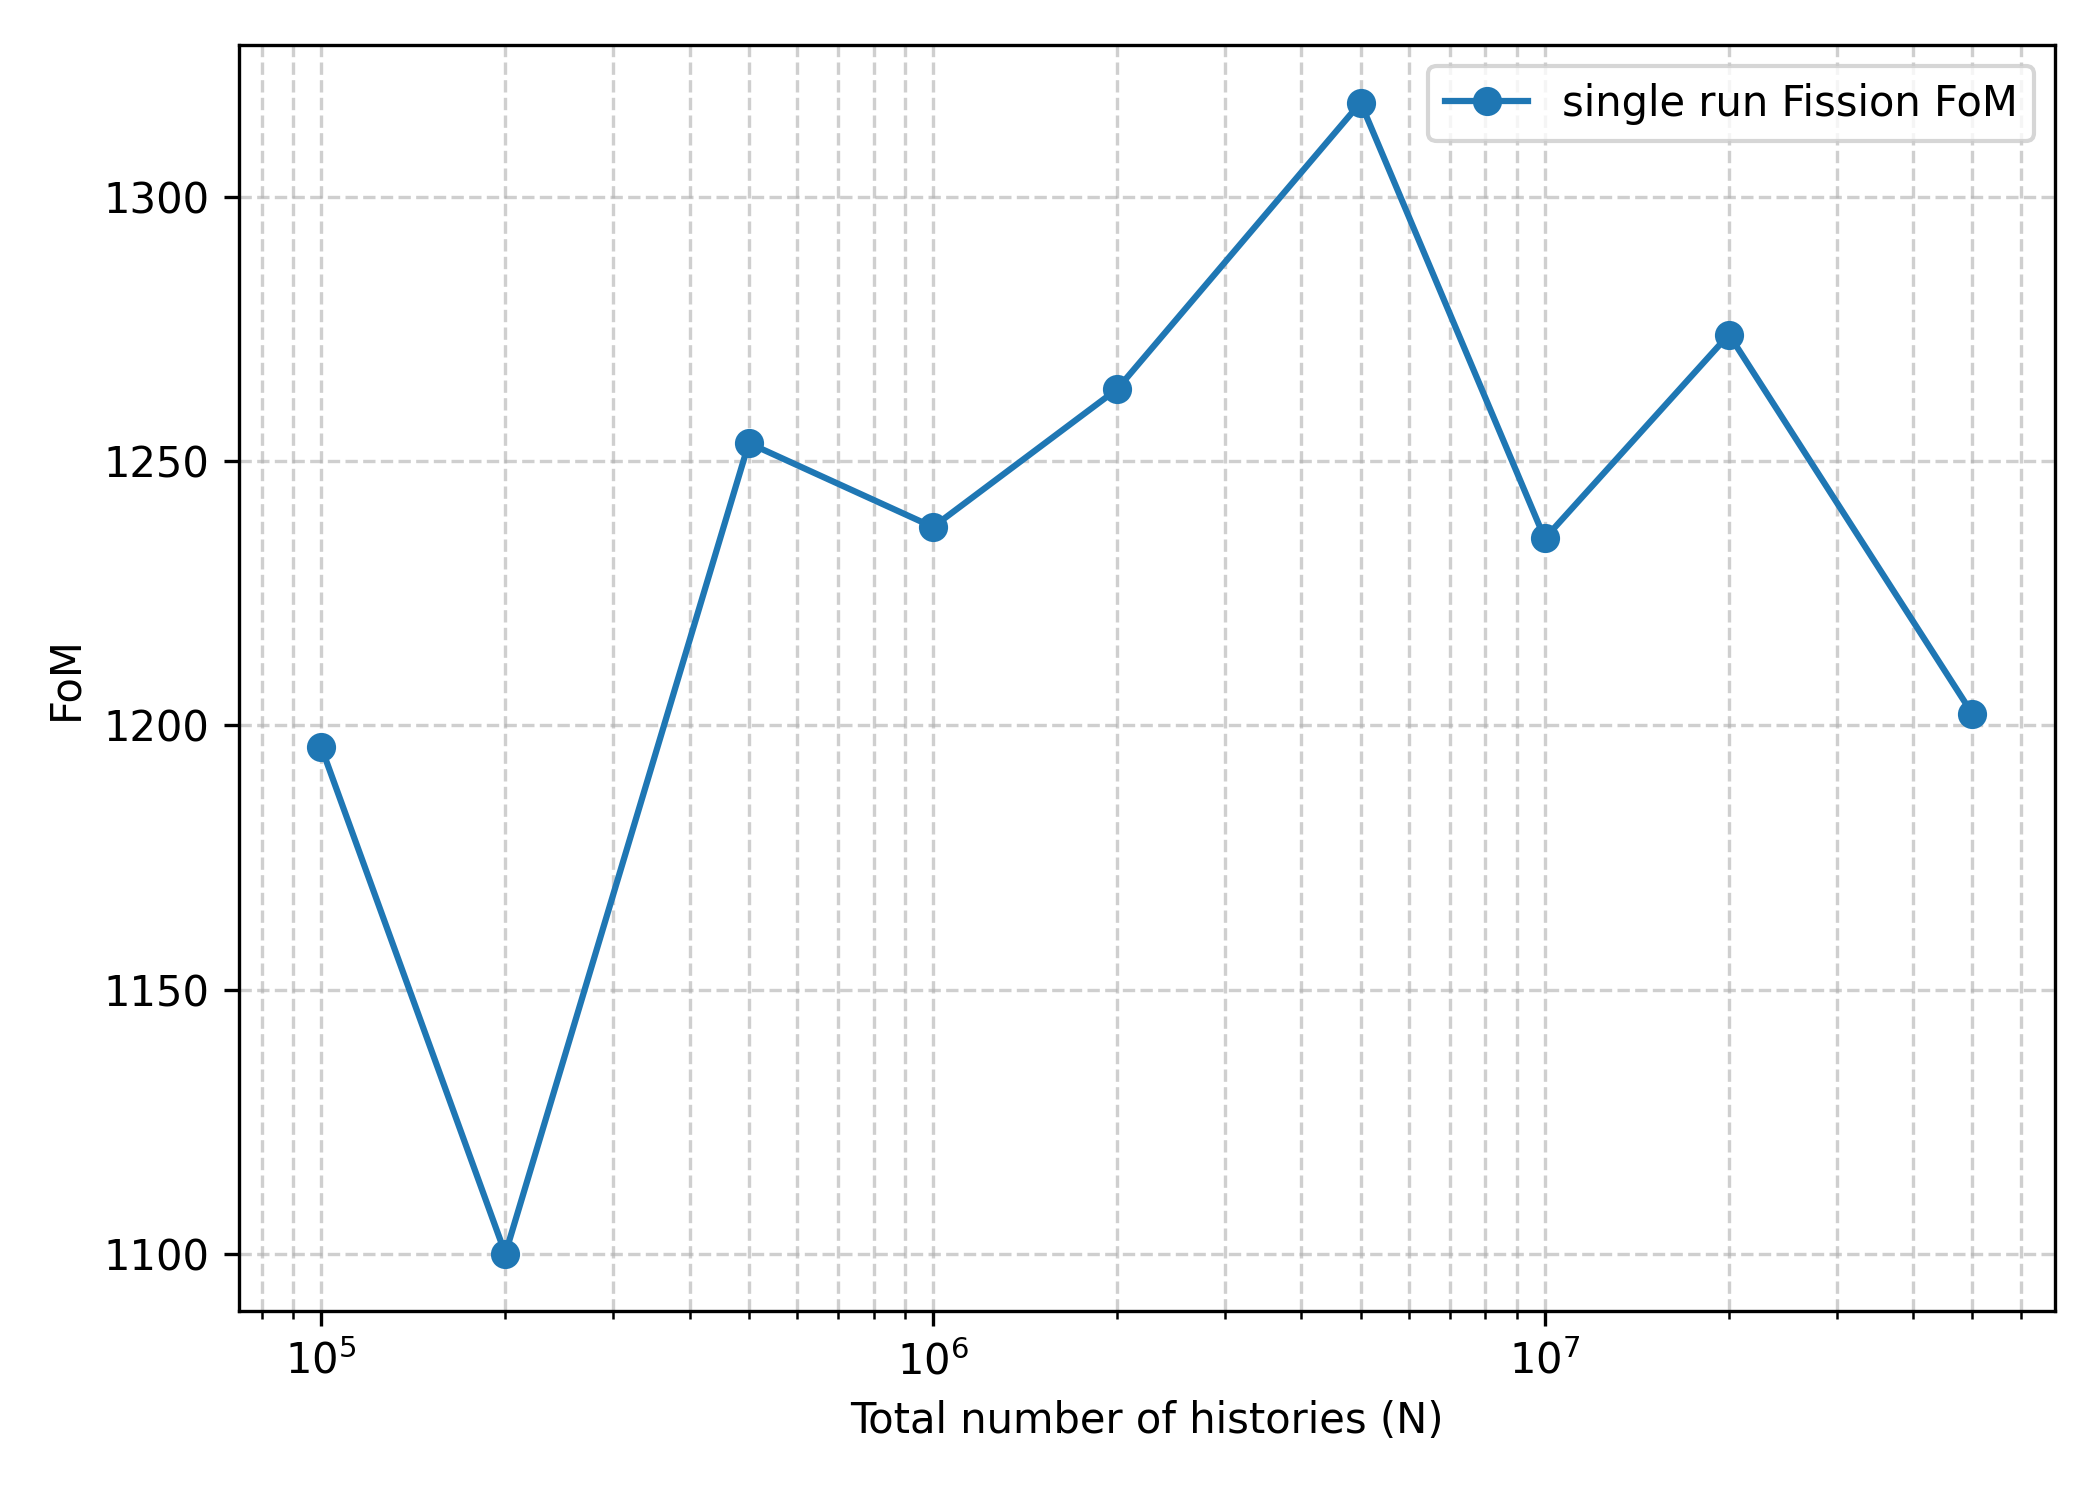
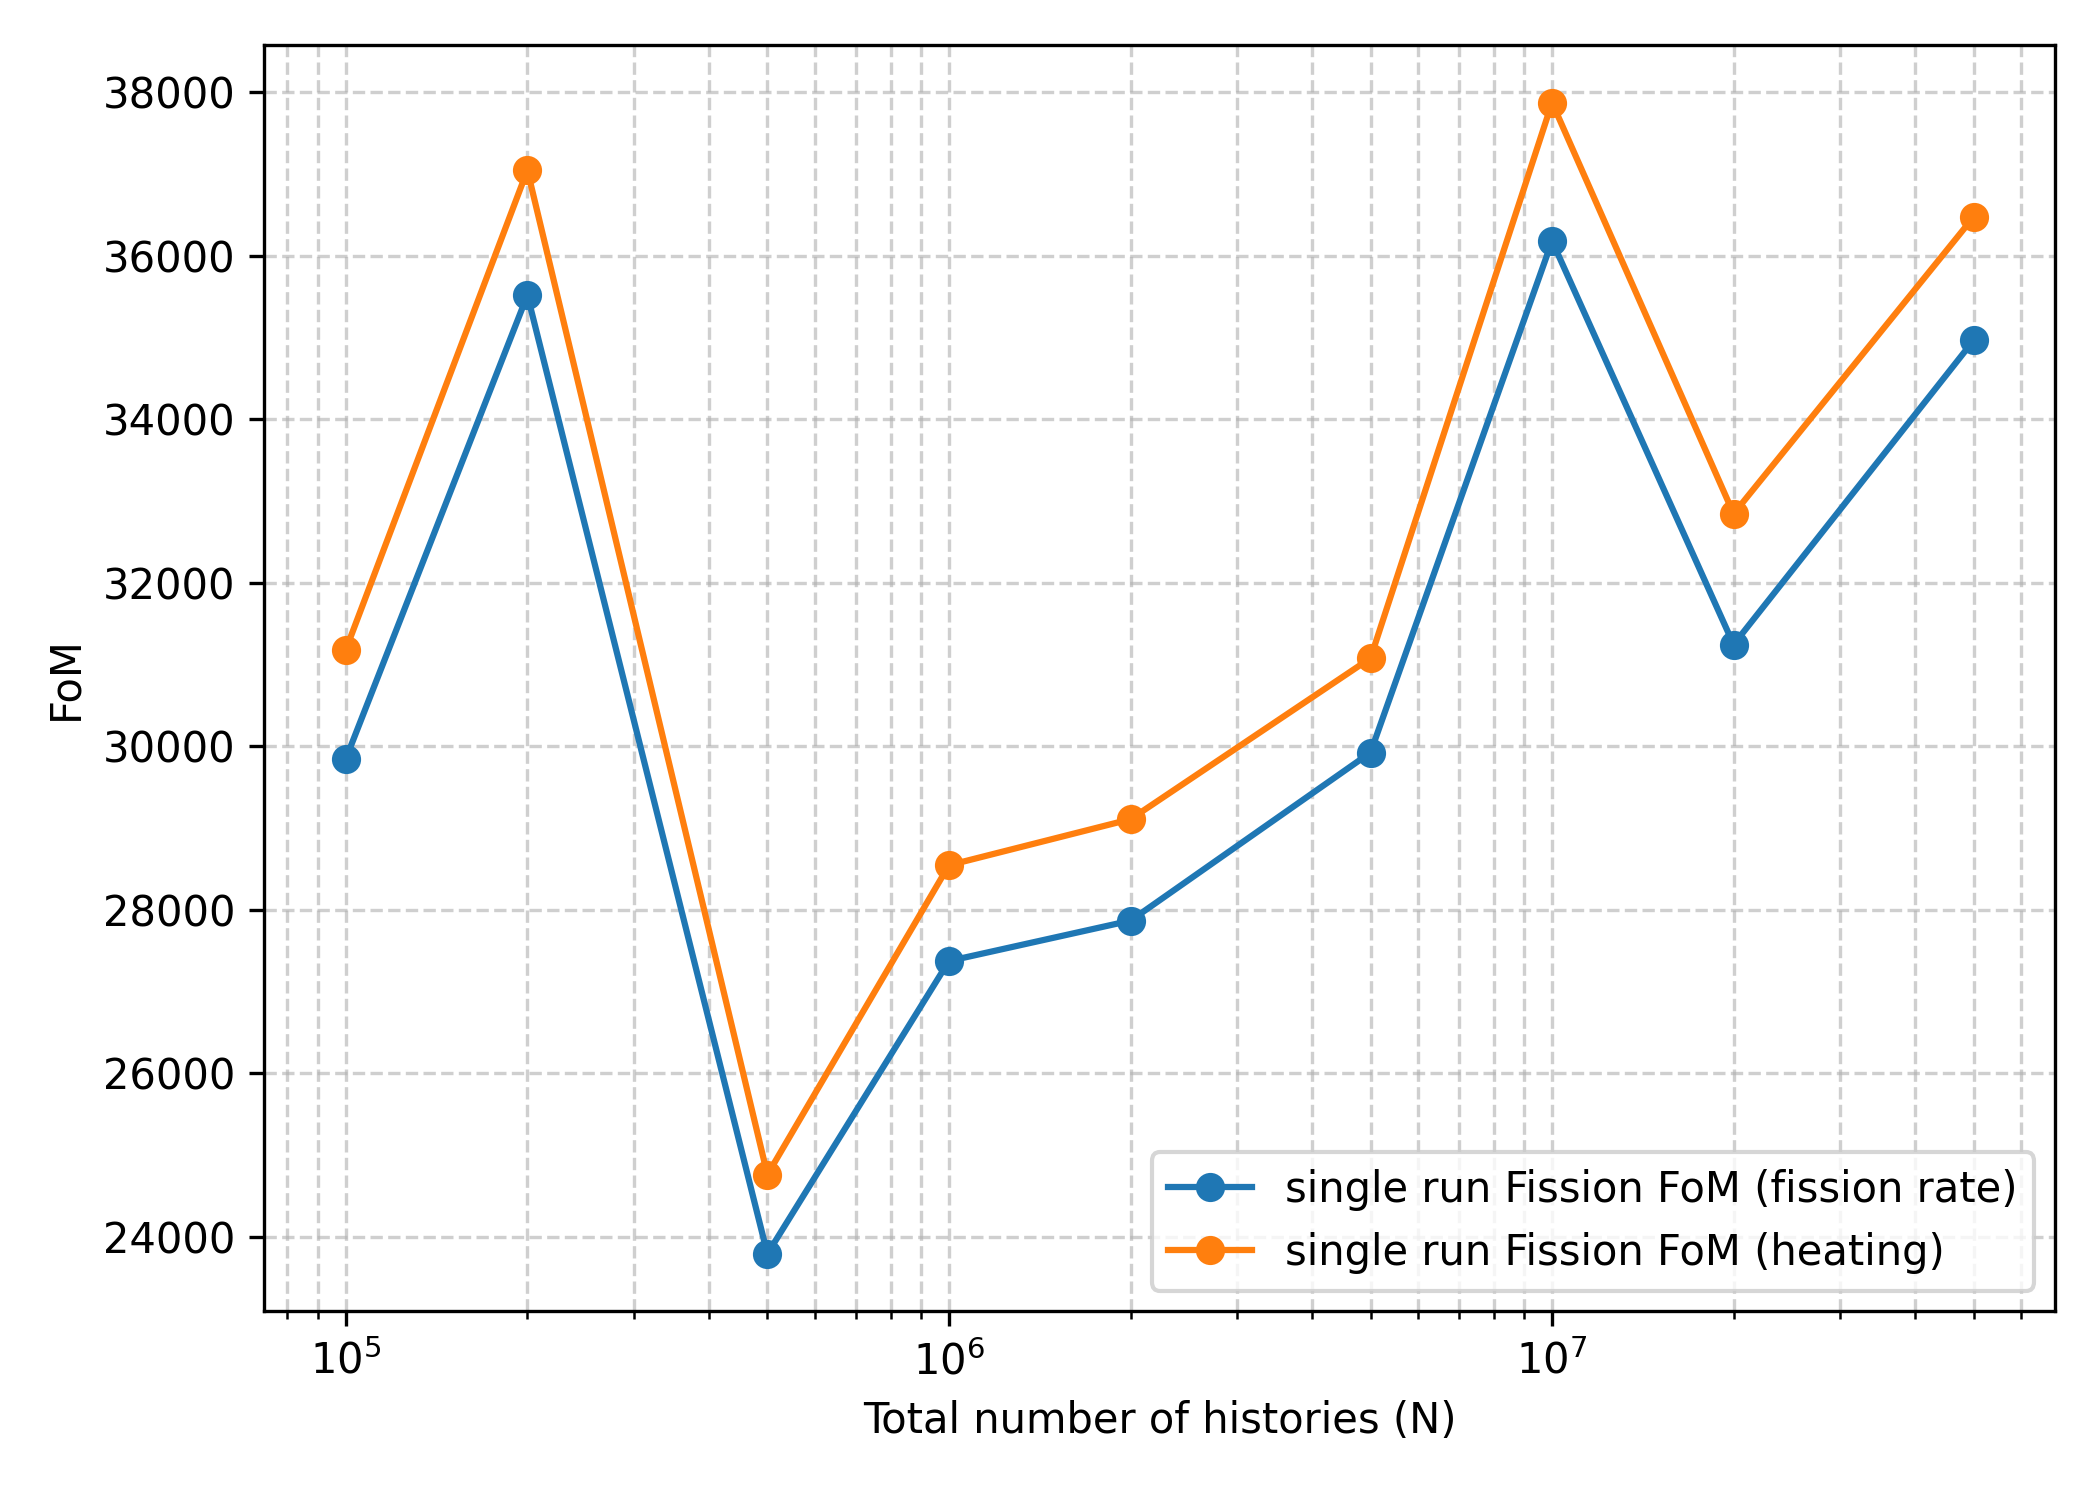
add heating tally analysis

diff --git a/Part_A_B/post_single.py b/Part_A_B/post_single.py
@@ -20,7 +20,7 @@ for n_particle in N_PARTICLE:
     SIZE = N_BATCH * n_particle
     run_dir = BASE_DIR / f"N={SIZE}" / "runs" / "run_001"
 
-    sp_file = list(run_dir.glob("statepoint.*.h5"))[0]
+    sp_file = list(run_dir.glob("statepoint.100.h5"))[0]
     sp = openmc.StatePoint(sp_file)
 
     fission = sp.get_tally(scores=["fission"])
@@ -39,22 +39,35 @@ for n_particle in N_PARTICLE:
 
     times.append(sp.runtime["simulation"])
 
-FoMs = []
+print("Fission rate mean:", f_mean)
+print("Fission rate std:", f_std)
+print("Heating mean:", h_mean)
+print("Heating std:", h_std)
+
+f_FoMs = []
+h_FoMs = []
 
 for i in range(len(times)):
-    FoM = 1.0 / (fission_rel_sigma[i]**2 * times[i])
-    FoMs.append(FoM)
+    f_FoM = 1.0 / (fission_rel_sigma[i]**2 * times[i])
+    h_FoM = 1.0 / (heating_rel_sigma[i]**2 * times[i])
+    f_FoMs.append(f_FoM)
+    h_FoMs.append(h_FoM)
 
 sizes = np.array(sizes)
 fission_rel_sigma = np.array(fission_rel_sigma)
+heating_rel_sigma = np.array(heating_rel_sigma)
 
-FoMs = np.array(FoMs)
+f_FoMs = np.array(f_FoMs)
+h_FoMs = np.array(h_FoMs)
 
 # For sigma vs. N
-coef = np.polyfit(np.log10(sizes), np.log10(fission_rel_sigma), 1)
-slope = coef[0]
+f_coef = np.polyfit(np.log10(sizes), np.log10(fission_rel_sigma), 1)
+f_slope = f_coef[0]
+h_coef = np.polyfit(np.log10(sizes), np.log10(heating_rel_sigma), 1)
+h_slope = h_coef[0]
 
-print(f"Single-run slope ≈ {slope:.2f}")
+print(f"Single-run slope (fission rate) ≈ {f_slope:.2f}")
+print(f"Single-run slope (heating) ≈ {h_slope:.2f}")
 
 plt.figure(figsize=(7,5))
 plt.loglog(sizes, fission_rel_sigma, 'o-', label="Single-run fission σ")
@@ -66,7 +79,7 @@ plt.grid(True, which="both", ls="--", alpha=0.6)
 
 plt.text(
     0.05, 0.95,
-    rf"Slope = {slope:.2f}",
+    rf"Slope (fission rate) = {f_slope:.2f}; Slope (heating) = {h_slope:.2f}",
     transform=plt.gca().transAxes,
     fontsize=11,
     verticalalignment="top",
@@ -80,7 +93,8 @@ plt.show()
 
 # For FoM vs. N
 plt.figure(figsize=(7,5))
-plt.plot(sizes, FoMs, 'o-', label="single run Fission FoM")
+plt.plot(sizes, f_FoMs, 'o-', label="single run Fission FoM (fission rate)")
+plt.plot(sizes, h_FoMs, 'o-', label="single run Fission FoM (heating)")
 plt.xscale('log')
 
 plt.xlabel("Total number of histories (N)")

diff --git a/Part_A_B/run_simulation.py b/Part_A_B/run_simulation.py
@@ -3,7 +3,7 @@ import sys
 from pathlib import Path
 import numpy as np
 
-N_RUNS = 20 # M
+N_RUNS = 1 # M
 BASE_SEED = 12345
 N_BATCH = 100
 N_PARTICLE = np.array([1000, 2000, 5000, 10000, 20000, 50000, 100000, 200000, 500000])
@@ -27,9 +27,10 @@ for n_particle in N_PARTICLE:
         particle = n_particle
 
         # 1. Run OpenMC
+        sim_script = BASE_DIR / "simulation.py"
         sim_cmd = [
             sys.executable,
-            "simulation.py",
+            str(sim_script),
             "--seed", str(int(seed)),
             "--batch", str(int(batch)),
             "--particle", str(int(particle)),
@@ -47,9 +48,11 @@ for n_particle in N_PARTICLE:
         statepoint = statepoints[0]
 
         # 3. Post-process this run
+        post_script = BASE_DIR / "post_run.py"
+
         post_cmd = [
             sys.executable,
-            "post_run.py",
+            str(post_script),
             "--statepoint", str(statepoint),
             "--out", str(outdir / "results.csv")
         ]

diff --git a/Part_A_B/simulation.py b/Part_A_B/simulation.py
@@ -103,16 +103,16 @@ settings.export_to_xml()
 # Tally
 ###############################################################
 
-cell_filter = openmc.CellFilter(fuel)
+#cell_filter = openmc.CellFilter(fuel)
 
 # Create mesh which will be used for tally
-mesh = openmc.RegularMesh()
-mesh.dimension = [50, 50]
-mesh.lower_left = [-0.39, -0.39]
-mesh.upper_right = [0.39, 0.39]
+#mesh = openmc.RegularMesh()
+#mesh.dimension = [50, 50]
+#mesh.lower_left = [-0.39, -0.39]
+#mesh.upper_right = [0.39, 0.39]
 
 # Create mesh filter for tally
-mesh_filter = openmc.MeshFilter(mesh)
+#mesh_filter = openmc.MeshFilter(mesh)
 
 tallies = openmc.Tallies()
 
